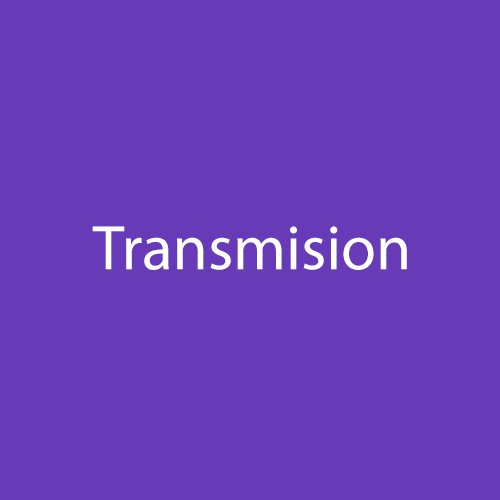
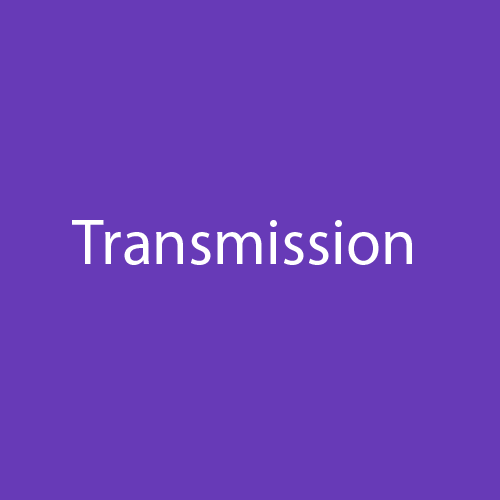
fixed spelling issues in images, added conclusions to data.db

Changed region(s): [[0.15, 0.42, 0.84, 0.54]]

diff --git a/index.html b/index.html
@@ -2,6 +2,7 @@
 	<head>
 		<title>SecurityModelCube</title>
 		<link rel='stylesheet' type='text/css' href='css/style.css?v1.0.7'>
+		<link rel="shortcut icon" href="redes/favicon.png" type="image/x-icon">
 		<script src="js/three.min.js"></script>
 		<script src="js/TrackballControls.js"></script>
 		<script src="js/DragControls.js"></script>

diff --git a/css/style.css b/css/style.css
@@ -167,4 +167,5 @@ select#myRange {
     max-height: 100px;
     overflow-y: auto;
     font-family: monospace;
+    text-align: justify;
 }
